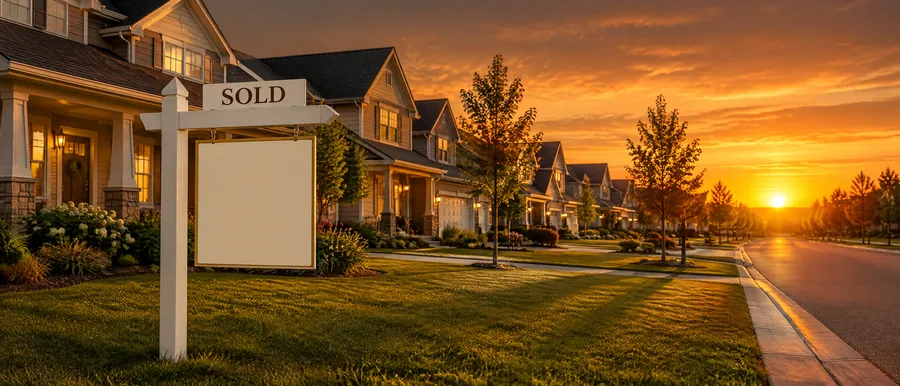
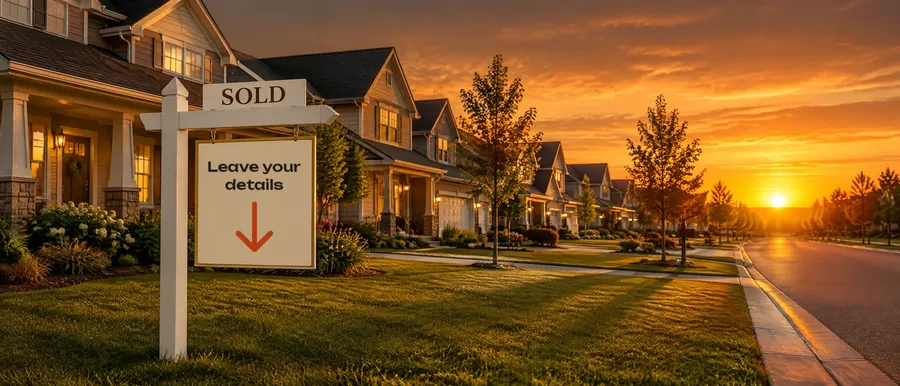
Closing photo: the sign's empty panel now says Leave your details, with an arrow down to the form
Claude-Session: https://claude.ai/code/session_01AMadsopYSHeLDUdSN4XVvi

Changed region(s): [[0.2178, 0.4041, 0.3422, 0.4974], [0.2489, 0.5285, 0.3111, 0.6528]]

diff --git a/src/data/industries.js b/src/data/industries.js
@@ -350,7 +350,8 @@ export const industries = [
         titleA: 'Ready to scale with us?',
         titleB: 'Book a demo.',
         text: 'Aurora answers, qualifies, books and follows up on every lead, so the brokers you have handle more deals. Bring one of your listings and hear it work.',
-        // a SOLD sign on a street of homes at sunrise: plainly real estate, in Aurora's dawn colours
+        // a SOLD sign on a street of homes at sunrise: plainly real estate, in Aurora's dawn colours; its panel points down
+        // to the form ('Leave your details' and an arrow, printed onto the photo)
         image: {
           src: '/media/real-estate/closing-sold-1600.webp',
           srcSet: '/media/real-estate/closing-sold-900.webp 900w, /media/real-estate/closing-sold-1200.webp 1200w, /media/real-estate/closing-sold-1600.webp 1600w, /media/real-estate/closing-sold-2000.webp 2000w',
